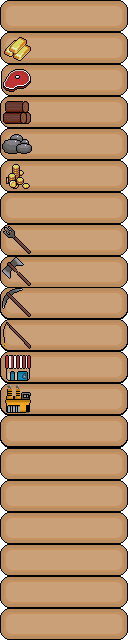
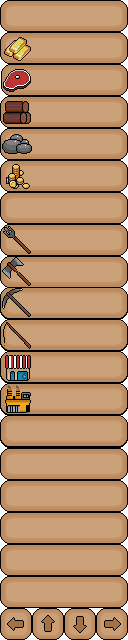
update improvement

diff --git a/js/mouse.js b/js/mouse.js
@@ -16,6 +16,7 @@ var createMinery = 9;
 var createPort = 10;
 var createShop = 11;
 var createFabric = 12;
+var moveCameraButtons = 19;
 var moveBox = false;
 
 function mouseClickDown(e){
@@ -51,6 +52,21 @@ function mouseClickDown(e){
         break;
       case createFabric:
         createMode = fabric;
+        break;
+      case moveCameraButtons:
+        if(cursorX<32){
+          console.log('move left')
+          cameraLeft();
+        } else if(cursorX<64){
+          console.log('move up')
+          cameraUp();
+        } else if(cursorX<96){
+          console.log('move down')
+          cameraDown();
+        } else if(cursorX<128){
+          console.log('move right')
+          cameraRight()
+        }
         break;
       default:
 
@@ -89,16 +105,32 @@ function mouseHover(){
   var mouseHoverY = Math.round((cursorY+correctorY)/boxHeight)-1;
   var mouseHoverX = Math.round((cursorX+correctorX)/boxWidth)-1;
   ctx.fillStyle = 'rgba(198, 196, 203, 0.3)';
+  var tileRow = (Math.round((cursorY-correctorY)/(boxHeight/2)));
+  var tileColumn = 0;
   if(cursorX>=uiWidth+correctorX && (cursorX<logBoxX || cursorX>(logBoxX+logBoxWidth) || cursorY<logBoxY-32 || cursorY>(logBoxY+logBoxHeight))){
     ctx.drawImage(tileMap,createMode*imgDimension,0*imgDimension,imgDimension,imgDimension,mouseHoverX*boxWidth,mouseHoverY*boxHeight,boxWidth,boxHeight);
     //ctx.drawImage(mouseRect,0*imgDimension,0*imgDimension,imgDimension,imgDimension,mouseHoverX*boxWidth,mouseHoverY*boxHeight,boxWidth,boxHeight);
     ctx.drawImage(mouseRect,0*imgDimension,0*imgDimension,imgDimension,imgDimension,mouseHoverX*boxWidth,mouseHoverY*boxHeight,boxWidth,boxHeight);
   } else if(cursorX <= uiWidth) {
-    var tileRow = (Math.round((cursorY-correctorY)/(boxHeight/2)));
-    var tileColumn = 0;
-    ctx.drawImage(tileUi2,tileColumn*uiImgWidth,tileRow*uiImgHeight,uiImgWidth,uiImgHeight,0,(boxHeight/2)*tileRow,uiWidth,(boxHeight/2));
-    drawAuxText(tileRow);
-  }
+    tileRow = (Math.round((cursorY-correctorY)/(boxHeight/2)));
+    tileColumn = 0;
+    if(tileRow<19){
+      ctx.drawImage(tileUi2,tileColumn*uiImgWidth,tileRow*uiImgHeight,uiImgWidth,uiImgHeight,tileColumn,(boxHeight/2)*tileRow,uiWidth,(boxHeight/2));
+      drawAuxText(tileRow);
+    } else {
+      if(cursorX<32){
+        tileColumn = 0;
+      } else if(cursorX<64){
+        tileColumn = 32;
+      } else if(cursorX<96){
+        tileColumn = 64;
+      } else if(cursorX<128){
+        tileColumn = 96;
+      }
+      ctx.drawImage(tileUi2,tileColumn*0,tileRow*uiImgHeight,32,uiImgHeight,tileColumn,(boxHeight/2)*tileRow,32,(boxHeight/2));
+      drawAuxText(tileRow);
+    }
+  } 
 }
 
 var delayHover = 20;

diff --git a/js/ui.js b/js/ui.js
@@ -83,7 +83,7 @@ function drawUi(){
   ctx.fillText('SHOP',marginLeft2,boxHeight/2+boxHeight*5.25);
   ctx.fillText('FACTORY',marginLeft2,boxHeight/2+boxHeight*5.75);
   ctx.fillText('TIME: ' + ('0' + player.actualTime.getHours()).slice(-2) + ':' + ('0' + player.actualTime.getMinutes()).slice(-2)
-  + ':' + ('0' + player.actualTime.getSeconds()).slice(-2) + ' ', 64,boxHeight/2+boxHeight*7.25);
+  + ':' + ('0' + player.actualTime.getSeconds()).slice(-2) + ' ', 64,boxHeight/2+boxHeight*8.75);
   drawLogBox();
   drawPayBox();
 }
@@ -101,6 +101,8 @@ createSawhill = 8;
 createMinery = 9;
 createPort = 10;
 createShop = 11;
+createFabric = 12;
+moveCameraButtons = 19;
 */
 
 function drawLogBox(){
@@ -146,7 +148,7 @@ function drawAuxText(y){
       line3 = 'de este, a cambio de oro.';
       line4 = 'Tip: si mantienes pulsada la tecla "shift"';
       line5 = 'podras vender en paquetes de 100 unidades.';
-      line6 = '';
+      line6 = 'Tip2: pulsa la tecla P para pausar el juego.';
       break;
     case uiGold:
       line1 = 'Esta es la cantidad de oro conseguido. Podras';
@@ -235,6 +237,22 @@ function drawAuxText(y){
       line4 = 'Costo: ' + shopCost;
       line5 = 'Impuesto: ' + shopTax;
       line6 = 'Beneficio: ' + shopBenefict + ' de oro.';
+      break;
+    case createFabric:
+      line1 = 'La fábrica utiliza tus recursos para manufacturar';
+      line2 = 'diversos productos, que se venden al por mayor.';
+      line3 = 'Alimento/Madera: ' + fabricFoodCost + '/' + fabricLumberCost;
+      line4 = 'Costo: ' + fabricCost;
+      line5 = 'Impuesto: ' + fabricTax;
+      line6 = 'Beneficio: ' + fabricBenefict + ' de oro.';
+      break;
+    case moveCameraButtons:
+      line1 = 'Puedes utilizar este panel para mover la cámara del';
+      line2 = 'mapa. También es posible hacerlo con las arrow keys';
+      line3 = 'del teclado.';
+      line4 = '';
+      line5 = '';
+      line6 = '';
       break;
   }
   ctx.drawImage(auxText,0,0,logBoxWidth,logBoxHeight,logBoxX,logBoxY,logBoxWidth,logBoxHeight);

diff --git a/js/settlements.js b/js/settlements.js
@@ -3,22 +3,28 @@ var portCost = 280;
 var farmCost = 80;
 var mineryCost = 230;
 var shopCost = 500;
+var fabricCost = 1500;
 
 var sawhillTax = 10;
 var portTax = 10;
 var farmTax = 7;
 var mineryTax = 13;
 var shopTax = 3;
+var fabricTax = 9;
 
 var sawhillBenefict = 2;
 var portBenefict = 3;
 var farmBenefict = 2;
 var mineryBenefict = 3;
 var shopBenefict = 230;
+var fabricBenefict = 1000;
 
 var shopStoneCost = 6; //60
 var shopLumberCost = 10; //80
 var shopFoodCost = 14; //70
+var fabricFoodCost = 42;
+var fabricLumberCost = 30;
+
 
 class ExplotationBuild{
   constructor(y,x){
@@ -99,19 +105,19 @@ class Shop extends ExplotationBuild{
 class Fabric extends ExplotationBuild{
   constructor(y,x){
     super(y,x);
-    this.cost = shopCost;
+    this.cost = fabricCost;
     this.benefict = 0;
     this.material = fabric;
-    this.incomes = shopTax;
-    this.stoneCost = shopStoneCost;
-    this.foodCost = shopFoodCost;
-    this.lumberCost = shopLumberCost;
+    this.incomes = fabricTax;
+    this.stoneCost = fabricStoneCost;
+    this.foodCost = fabricFoodCost;
+    this.lumberCost = fabricLumberCost;
   }
     benefaction(){
       if(player.stone >= this.stoneCost && player.food >= this.foodCost && player.lumber >= this.lumberCost){
-          this.benefict = shopBenefict;
+          this.benefict = fabricBenefict;
       } else {
-        player.pushLog('this shop (' + this.x + ', ' + this.y + ') is not working');
+        player.pushLog('this fabric (' + this.x + ', ' + this.y + ') is not working');
       }
       return this.benefict;
     }

diff --git a/js/main.js b/js/main.js
@@ -3,8 +3,8 @@ var ctx;
 var FPS = 60;
 var boxWidth = 64;
 var boxHeight = 64;
-var columns = Math.floor(window.innerWidth/boxWidth);
-var rows = Math.floor(640/boxHeight);
+var columns = 15;
+var rows = 10;
 var canvasWidth = boxWidth * columns;
 var canvasHeight = boxHeight * rows;
 var tileMap;
@@ -100,8 +100,8 @@ function initialize(){
 }
 
 function main(){
-  columns = Math.floor(window.innerWidth/boxWidth);
-  rows = Math.floor(640/boxHeight);
+  columns = 15;
+  rows = 10;
   canvasWidth = boxWidth * columns;
   canvasHeight = boxHeight * rows;
   clearScreen();

diff --git a/index.html b/index.html
@@ -5,7 +5,6 @@
   <title>No Name</title>
   <link rel='stylesheet' type='text/css' href='css/style.css'>
   <script src='js/keypress.js'></script>
-  <script src="cordova.js"></script>
   <script src='js/main.js'></script>
   <script src='js/map.js'></script>
   <script src='js/settlements.js'></script>

diff --git a/css/style.css b/css/style.css
@@ -1,13 +1,7 @@
-body{
-
-}
 canvas {
   padding: 5px;
   background-color: rgb(156, 114, 82);
   border-radius: 5px;
-}
-canvas-cont{
-  
 }
 canvas:hover{
   cursor: pointer;
